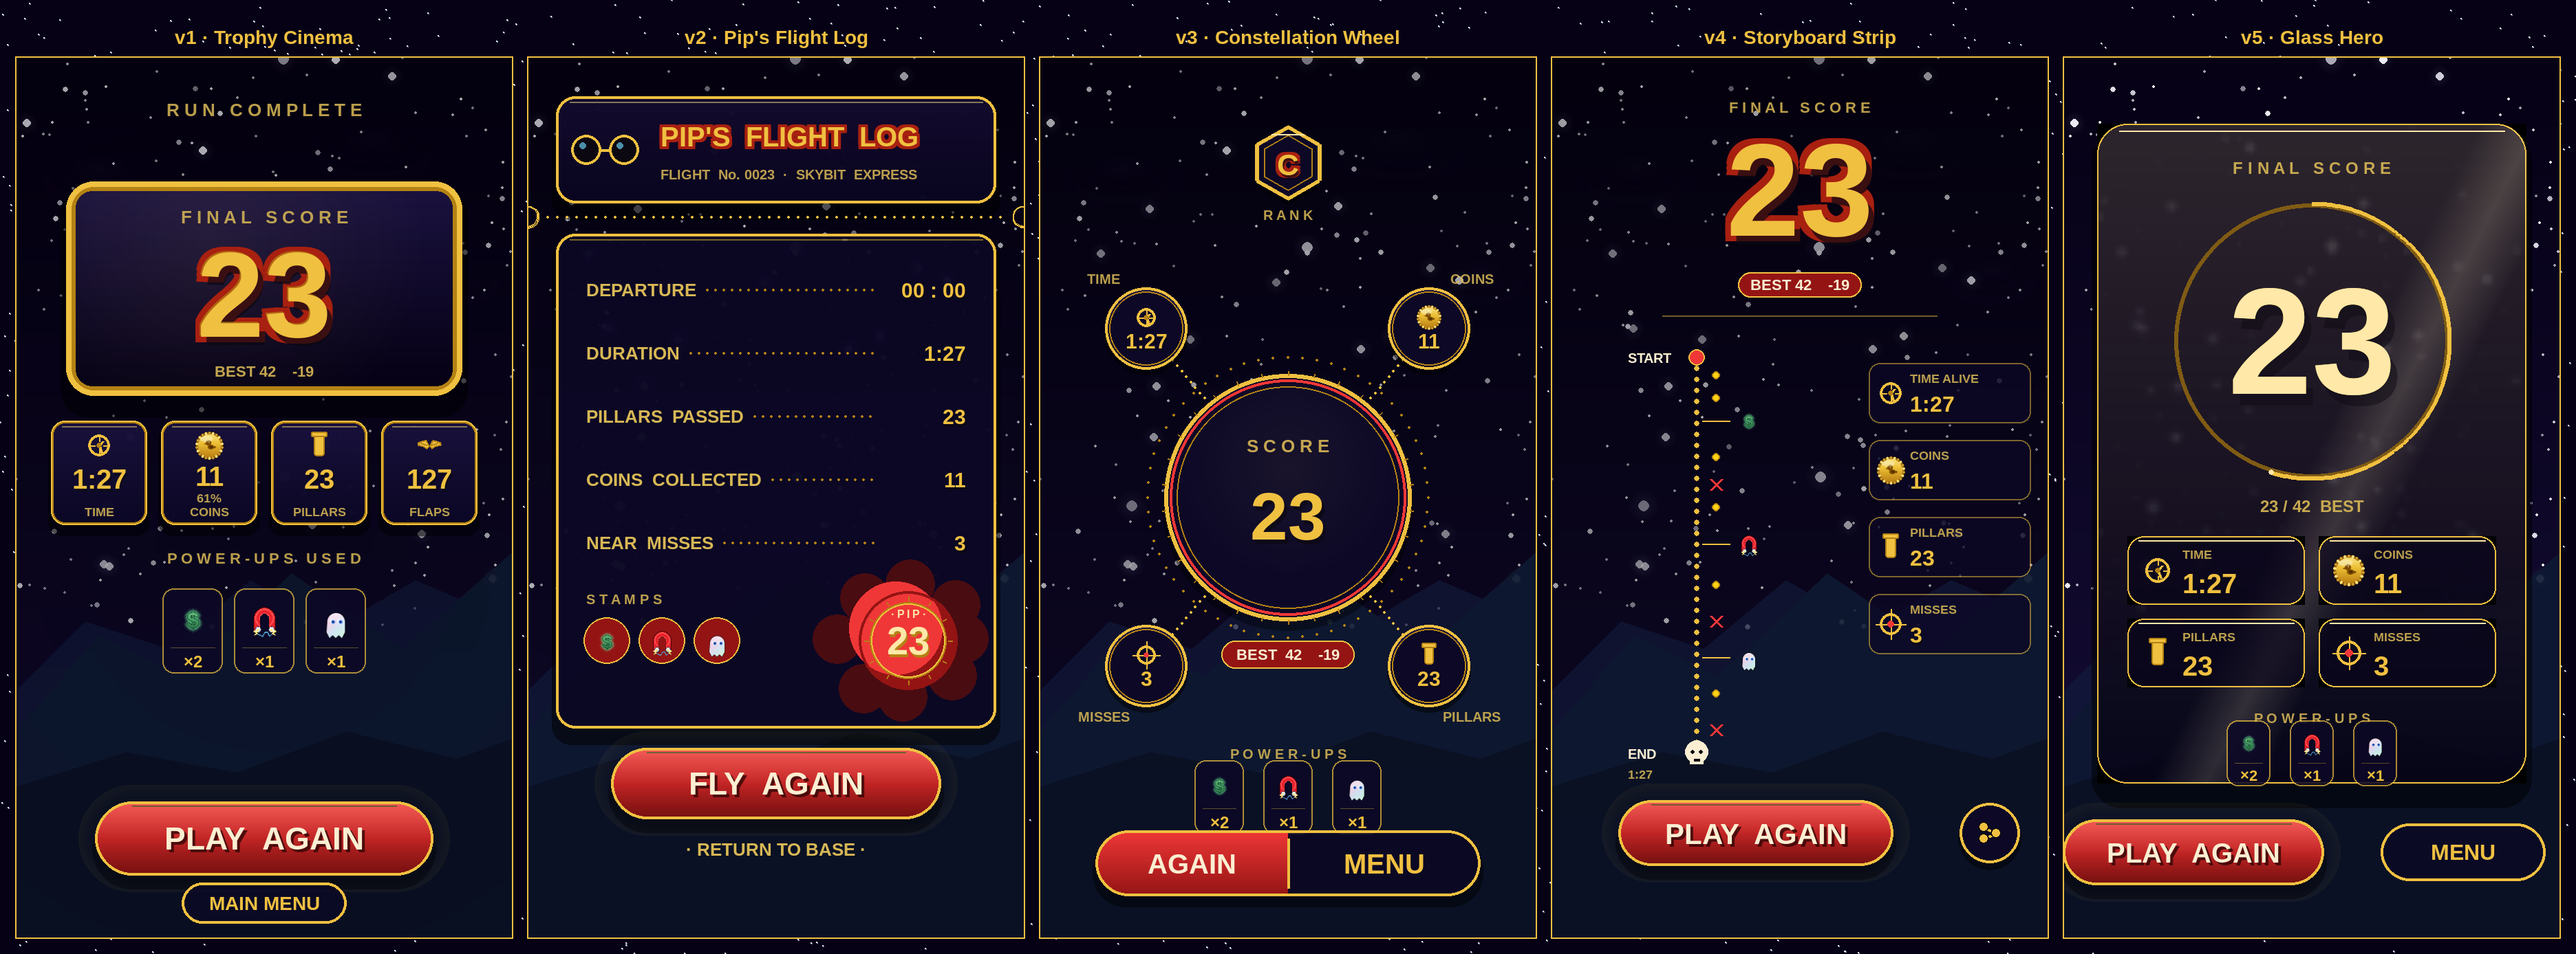
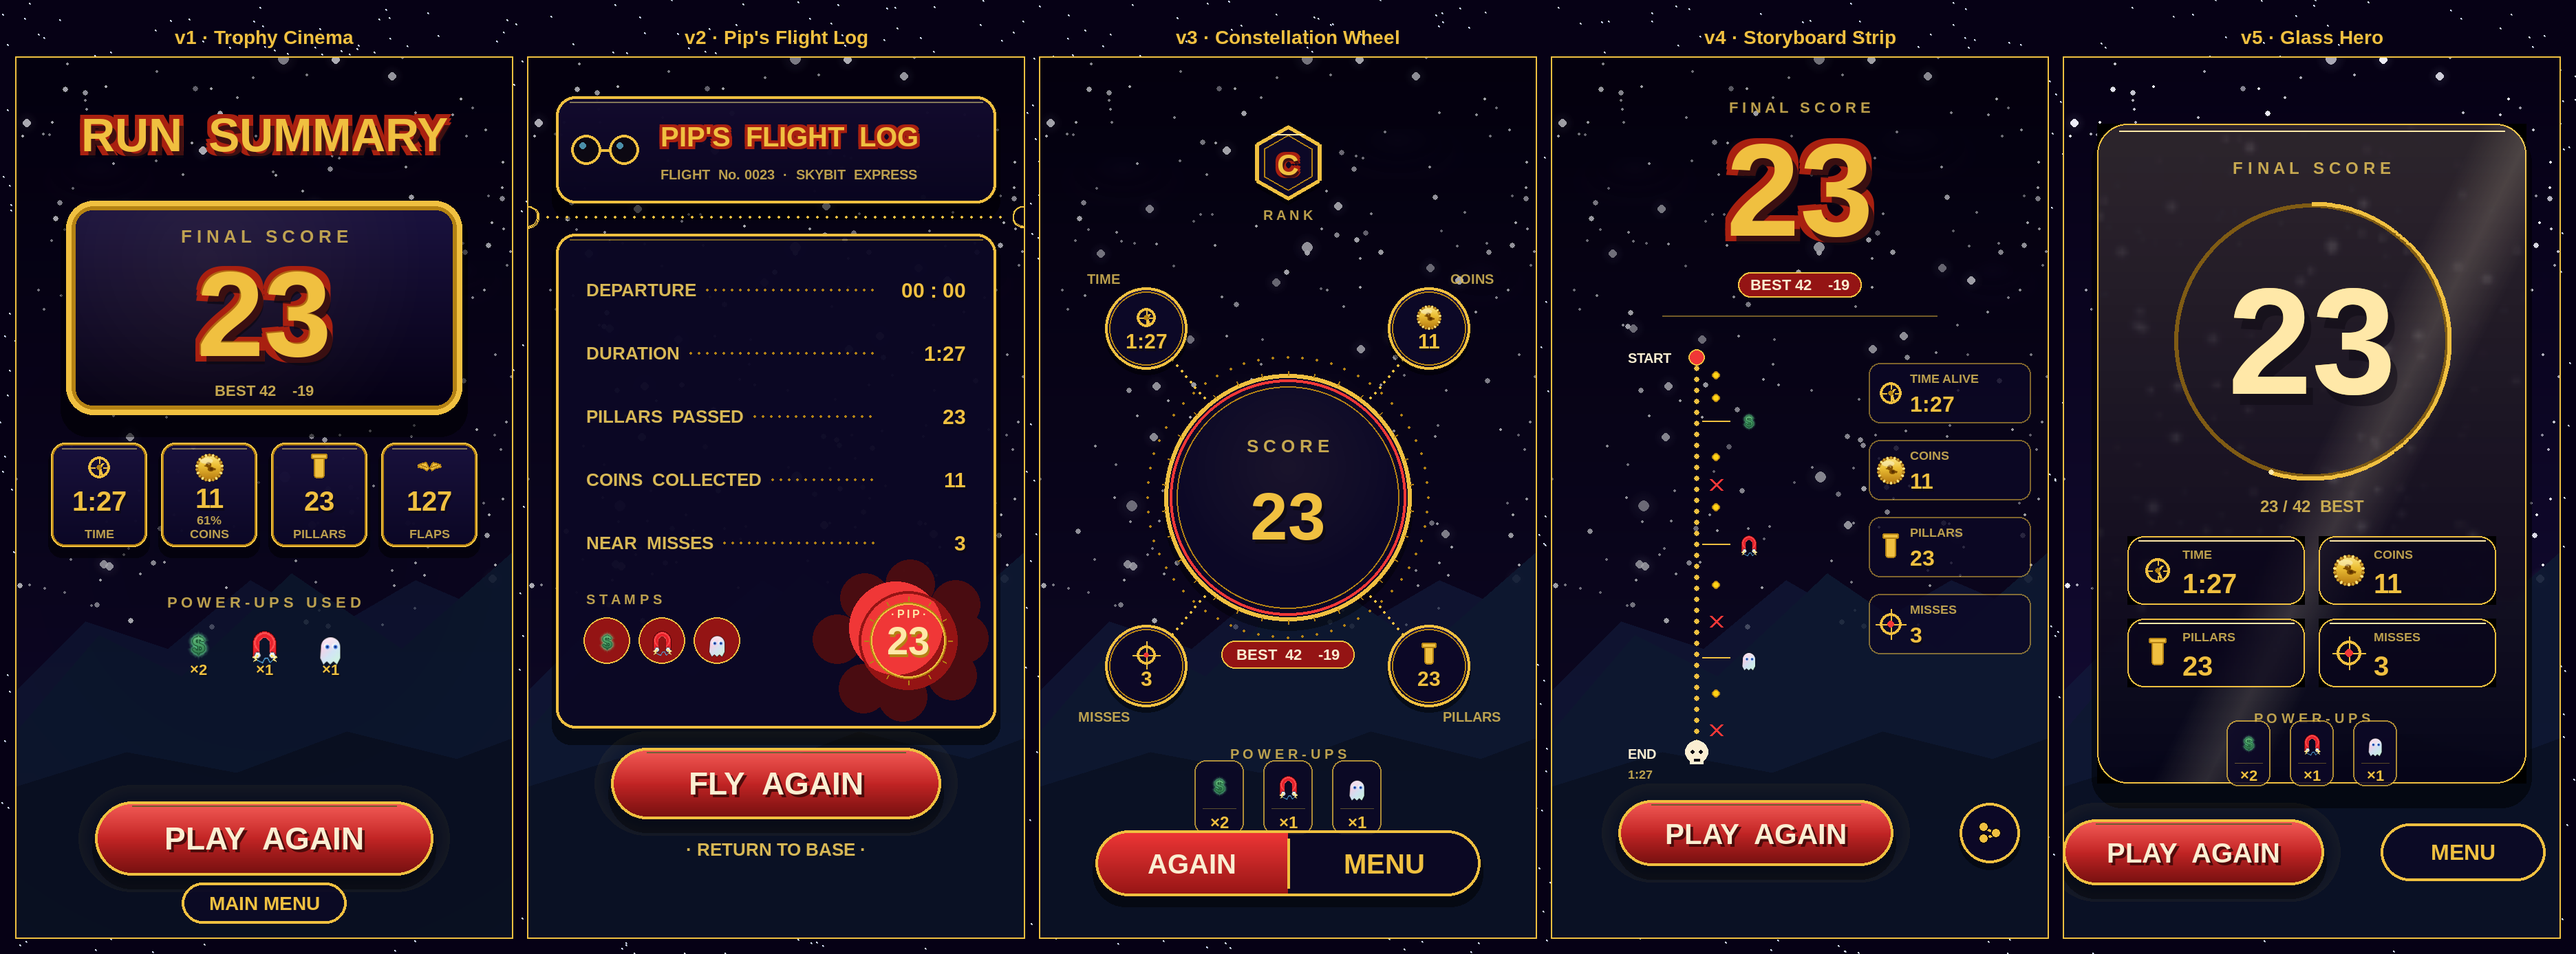
v1 polish: bigger gold-on-red RUN SUMMARY title, compact power-ups row
Title now uses the canonical big_title treatment (gold fill + red
outline + black shadow at size 34), matching the SKYBIT/GAME OVER
look. Renamed from "RUN COMPLETE" to "RUN SUMMARY".

Power-ups dropped the chip frame entirely — just bare in-game icons
with a tiny gold "×N" caption underneath. Same icon size whether 1
or 7 kinds were picked, and all 7 fit comfortably in one row at the
360-wide canvas. The vertical footprint shrank by ~75 px logical,
giving the stat tiles and plaque more breathing room.

https://claude.ai/code/session_01BEgi1kRwzhWvvC8NuZNc1t

Changed region(s): [[0.0, 0.0929, 0.1875, 0.5886], [0.0625, 0.6196, 0.1562, 0.7125]]

diff --git a/tools/gen_run_summary_redesigns.py b/tools/gen_run_summary_redesigns.py
@@ -781,10 +781,10 @@ def draw_v1_trophy_cinema(surf, data):
                            (W // 2, H // 2 + 40 * SCALE), r)
     surf.blit(vign, (0, 0))
 
-    # Top label
-    cap = font(13, True).render("R U N   C O M P L E T E", True, GOLD_MUTED)
-    cap.set_alpha(220)
-    surf.blit(cap, cap.get_rect(center=(W // 2, 38 * SCALE)))
+    # Title — canonical Skybit gold-on-red treatment, larger so it
+    # owns the top of the screen
+    big_title(surf, "RUN  SUMMARY", (W // 2, 56 * SCALE), size=34,
+              px_scale=3)
 
     # The rank medal and biome chip are intentionally absent — both
     # ended up reading as "condition the game ended in" without much
@@ -792,7 +792,7 @@ def draw_v1_trophy_cinema(surf, data):
     # to breathe at the top.
 
     # Hero score plaque — large rounded engraved panel
-    plaque = pygame.Rect(36 * SCALE, 90 * SCALE,
+    plaque = pygame.Rect(36 * SCALE, 104 * SCALE,
                          W - 72 * SCALE, 156 * SCALE)
     # Outer drop shadow
     sh = pygame.Surface((plaque.w + 8 * SCALE, plaque.h + 10 * SCALE),
@@ -877,40 +877,41 @@ def draw_v1_trophy_cinema(surf, data):
     tile_gap = 10 * SCALE
     total_w = len(tiles) * tile_w + (len(tiles) - 1) * tile_gap
     start_x = (W - total_w) // 2
-    tile_y = 264 * SCALE
+    tile_y = 280 * SCALE
     for i, (k, v, lbl, sub) in enumerate(tiles):
         r = pygame.Rect(start_x + i * (tile_w + tile_gap), tile_y,
                         tile_w, tile_h)
         stat_tile_chunky(surf, r, k, v, lbl, subline=sub)
 
-    # Power-ups grid — chip per kind that was actually picked. The chip
-    # size is *fixed* regardless of how many kinds were grabbed; if more
-    # than 4 kinds appear, the row wraps to a second row so each icon
-    # always reads at the same comfortable size.
+    # Power-ups row — compact strip: bare icons with a small "×N"
+    # caption underneath, no chip frame. Same icon size whether 1 or 7
+    # kinds were picked. Sized to fit all 7 in a single row at the 360
+    # logical canvas (7 × 44 + 6 × 4 = 332 px → 28 px total margin).
     pu = [(k, c) for k, c in data["powerups_picked"] if c and c > 0]
     if pu:
-        cap_y = 364 * SCALE
+        cap_y = 396 * SCALE
         cap2 = font(11, True).render("P O W E R - U P S   U S E D",
                                      True, GOLD_MUTED)
         cap2.set_alpha(220)
         surf.blit(cap2, cap2.get_rect(center=(W // 2, cap_y)))
-        chip_size, chip_gap = 22, 8
-        max_per_row = 4
-        chip_w = chip_size * 2 * SCALE
-        chip_h = chip_w + 18 * SCALE
-        chip_pitch = chip_w + chip_gap * SCALE
-        row_pitch = chip_h + 8 * SCALE
-        rows = [pu[i:i + max_per_row]
-                for i in range(0, len(pu), max_per_row)]
-        rows_top = cap_y + 22 * SCALE
-        for ri, row in enumerate(rows):
-            total_cw = (len(row) * chip_w
-                        + max(0, len(row) - 1) * chip_gap * SCALE)
-            sx = (W - total_cw) // 2 + chip_w // 2
-            row_cy = rows_top + ri * row_pitch + chip_h // 2
-            for i, (kind, count) in enumerate(row):
-                powerup_chip(surf, sx + i * chip_pitch, row_cy,
-                             kind, count, size=chip_size)
+        icon_logical = 22
+        icon_box = icon_logical * 2 * SCALE
+        gap = 4 * SCALE
+        pitch = icon_box + gap
+        total_w = len(pu) * icon_box + max(0, len(pu) - 1) * gap
+        sx = (W - total_w) // 2 + icon_box // 2
+        icon_cy = cap_y + 30 * SCALE
+        for i, (kind, count) in enumerate(pu):
+            cx = sx + i * pitch
+            _ingame_powerup_icon(surf, kind, cx, icon_cy,
+                                 int(icon_logical * 1.7 * SCALE))
+            cf = font(11, True).render(f"×{count}", True, GOLD_BRIGHT)
+            cs = font(11, True).render(f"×{count}", True, NEAR_BLACK)
+            cs.set_alpha(170)
+            cr = cf.get_rect(center=(cx, icon_cy
+                                     + int(icon_logical * 0.9) * SCALE))
+            surf.blit(cs, (cr.x + 1 * SCALE, cr.y + 1 * SCALE))
+            surf.blit(cf, cr)
 
     # Primary CTA + secondary
     pill(surf, (W // 2, 568 * SCALE), "PLAY  AGAIN",
